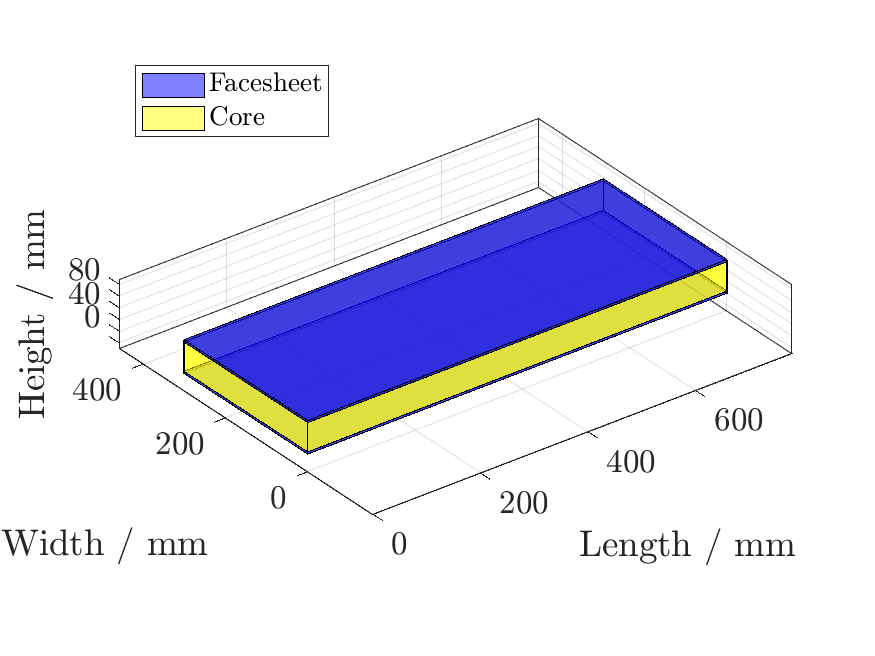
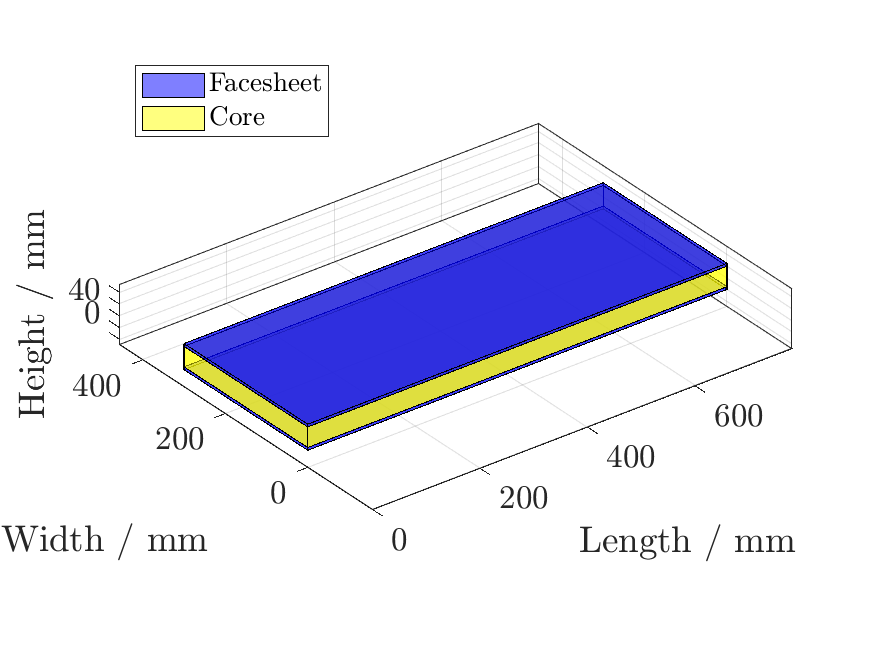
g

diff --git a/Monocoque/Side_Impact_Structure/FrontBulkheadSupport.m b/Monocoque/Side_Impact_Structure/FrontBulkheadSupport.m
@@ -17,12 +17,12 @@ close all
 % through the other facesheet
 
 %% Facesheet layup
-layup_iteration_0_s = [90 0 -45 45 0 -45 45 0 0 90 -45 45 0 0];
+layup_iteration_0_s = [0 0 90 0 0 -45 45 0 -45 +45 0 0 90 -45 45 90 0 0];
 [A_0, B_0, D_0, ABD_0, Q_0, thickness_0] = ABD(layup_iteration_0_s);
 
 L = 780e-3;% Length of the structure in m
 b = 300e-3;% Depth of the beam, i.e. about the axis of bending in m
-c = 50e-3;% Thickness of the foam core
+c = 35e-3;% Thickness of the foam core
 
 %% Dimensions and properties
 E_c = psiToPa(65e3);% Modulus of the foam core in Pa
@@ -204,3 +204,6 @@ area_test = area_test * 2
 area_covered = L * b;
 mass_per_m2 = mass_total / area_covered
 cost_per_m2 = cost / area_covered
+
+area_bulkheadsupport = 1.4;
+cost_bulkheadsupport = area_bulkheadsupport * cost_per_m2
